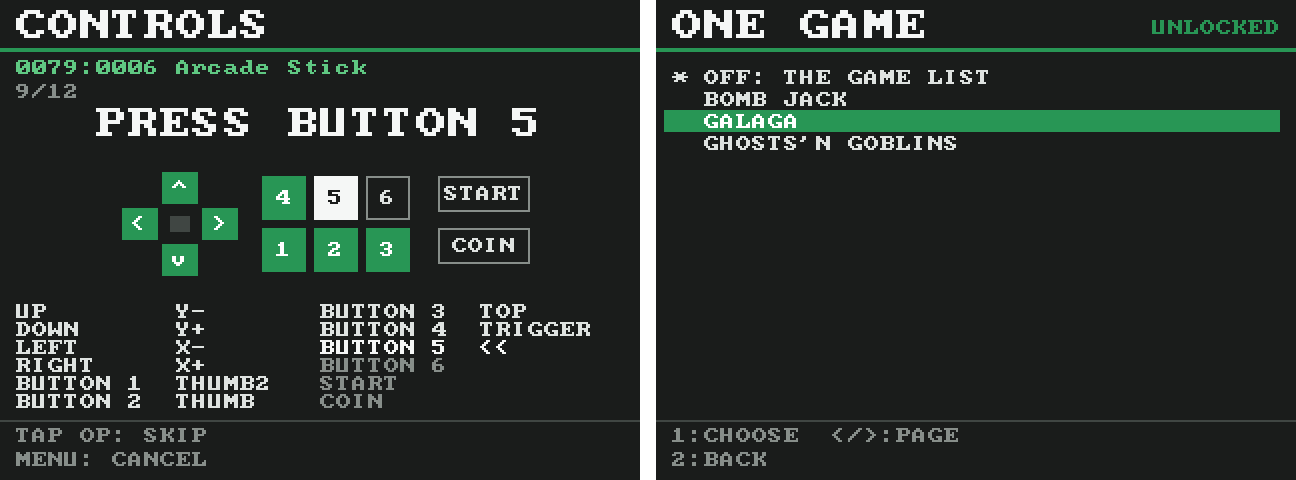
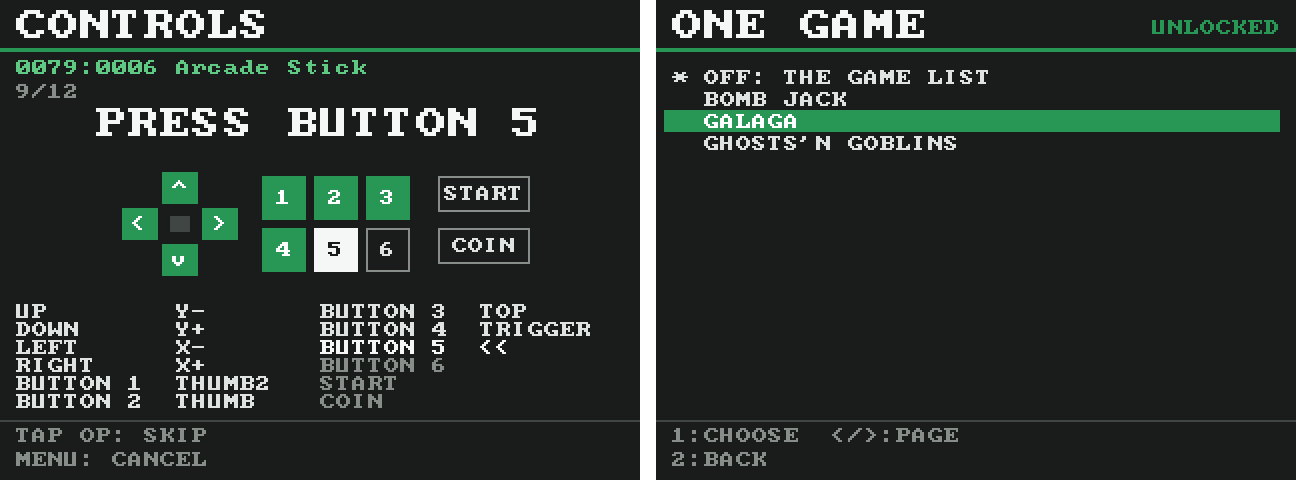
2.5.1: controller setup shows 1 2 3 on top, 4 5 6 underneath
The panel picture in CONTROLLER SETUP and the layout diagrams in the
manual and kiosk.ini now show buttons 1 2 3 on the top row and 4 5 6
below. Button numbering and mapping are unchanged.

Claude-Session: https://claude.ai/code/session_01BiX7tJ3KvN3UYXpZzAPMyh

Changed region(s): [[0.216, 0.3438, 0.3395, 0.5938]]

diff --git a/arcade_kiosk/arcadekiosk.py b/arcade_kiosk/arcadekiosk.py
@@ -69,7 +69,7 @@ from font8x8 import FONT  # noqa: E402
 import monitor_test  # noqa: E402
 import wifi  # noqa: E402
 
-VERSION = "2.5"
+VERSION = "2.5.1"
 
 CONFIG_PATH = os.path.join(HERE, "kiosk.ini")
 STATE_PATH = os.path.join(HERE, "state.json")
@@ -1292,10 +1292,10 @@ class ControllerWizard:
         for st, dx, dy, ch in (("UP", 1, 0, "^"), ("DOWN", 1, 2, "v"), ("LEFT", 0, 1, "<"), ("RIGHT", 2, 1, ">")):
             box(sx + dx * 20, sy + dy * 18, 18, 16, st, ch)
         c.fill(sx + 24, sy + 22, 10, 8, LINE)
-        # buttons as on the panel: 4 5 6 on top, 1 2 3 underneath
+        # buttons as on the panel: 1 2 3 on top, 4 5 6 underneath
         bx = x0 + 70
         for i in range(6):
-            row = 1 if i < 3 else 0
+            row = 0 if i < 3 else 1
             box(bx + (i % 3) * 26, y + 10 + row * 26, 22, 22, str(i + 1), str(i + 1))
         # start and coin
         ox = bx + 3 * 26 + 10
@@ -2630,8 +2630,8 @@ def _note_created(path, backup_dir):
 # ---------------------------------------------------------------------------
 # Controller setup wizard: what it writes
 # ---------------------------------------------------------------------------
-# The steps, in order. Panel buttons are numbered 1-6 (4 5 6 on the top row,
-# 1 2 3 underneath, as in the standard layout); they're stored in the MiSTer's pad slots B,A,R,Y,X,L,
+# The steps, in order. Panel buttons are numbered 1-6 (1 2 3 on the top row,
+# 4 5 6 underneath, as in the standard layout); they're stored in the MiSTer's pad slots B,A,R,Y,X,L,
 # which is what panel_layout says, so every game gets the same 1-6 layout.
 WIZARD_STEPS = ("UP", "DOWN", "LEFT", "RIGHT", "1", "2", "3", "4", "5", "6", "START", "COIN")
 WIZARD_SLOTS = {"UP": "UP", "DOWN": "DOWN", "LEFT": "LEFT", "RIGHT": "RIGHT",

diff --git a/MANUAL.md b/MANUAL.md
@@ -1,6 +1,6 @@
 # MisterOperator manual
 
-Version 2.5. MisterOperator turns a MiSTer FPGA into a locked-down, arcade-only cabinet:
+Version 2.5.1. MisterOperator turns a MiSTer FPGA into a locked-down, arcade-only cabinet:
 players see a game list and one MENU button that always brings them back to it, and the
 operator gets a hidden OPERATOR button that opens a service menu in the same look.
 
@@ -291,7 +291,7 @@ Set **Single game** to OFF to get the game list back. The choice is saved as
 **Controller setup** sets up an arcade controller in one pass, without the MiSTer menu.
 Press each control as the screen asks: stick up, down, left and right, then **buttons 1
 to 6**, then **player Start**, then **Coin**. A picture of the panel lights up the control
-to press next (4 5 6 on the top row, 1 2 3 underneath, as in the standard layout).
+to press next (1 2 3 on the top row, 4 5 6 underneath, as in the standard layout).
 The first controller touched is the one being set up; set up player 2 by running it again
 on the other controller.
 
@@ -384,8 +384,8 @@ ignores them, so the file still works everywhere else.
 Every game uses the same panel buttons, laid out as two rows of three:
 
 ```
-4 5 6
 1 2 3
+4 5 6
 ```
 
 Six-button games use 1–6 in order; one- to three-button games use 1, 2, 3; four-button
@@ -731,6 +731,7 @@ Everything is written to `/tmp/arcadekiosk.log` (also readable in **View log**).
 
 | Version | Date | Changes |
 |---|---|---|
+| 2.5.1 | 2026-11-15 | Panel shown as 1 2 3 on the top row and 4 5 6 underneath (controller setup picture and docs). |
 | 2.5 | 2026-11-15 | **Wi-Fi** in the operator menu: scan, choose a network and type its password with the stick on an on-screen keyboard. `wifi_country` setting. |
 | 2.4.4 | 2026-11-14 | Kiosk build fix: the silent NVRAM save for cores with their own "Save NVRAM" item, and switching on "Autosave Hiscores", never ran (the build stopped reading a core's options at the first, empty, entry). Install the new build from **MiSTer main** (`OLD: 1 UPDATES`). |
 | 2.4.3 | 2026-11-14 | Updates use the now-public GitHub repo with no token: `update_token` is gone (removed from `kiosk.ini` by the update), and if GitHub's API refuses, the version comes from the public releases page. |

diff --git a/README.md b/README.md
@@ -8,7 +8,7 @@ the MiSTer is reachable while the cabinet is locked.
 
 ![The game list on a landscape (YOKO) and a vertical (TATE) monitor](docs/screens.png)
 
-**Version 2.5** · for 15 kHz CRTs and HDMI · USB arcade encoders · nothing to install on
+**Version 2.5.1** · for 15 kHz CRTs and HDMI · USB arcade encoders · nothing to install on
 the MiSTer besides the kiosk · **[Manual](MANUAL.md)**
 
 ## Features
